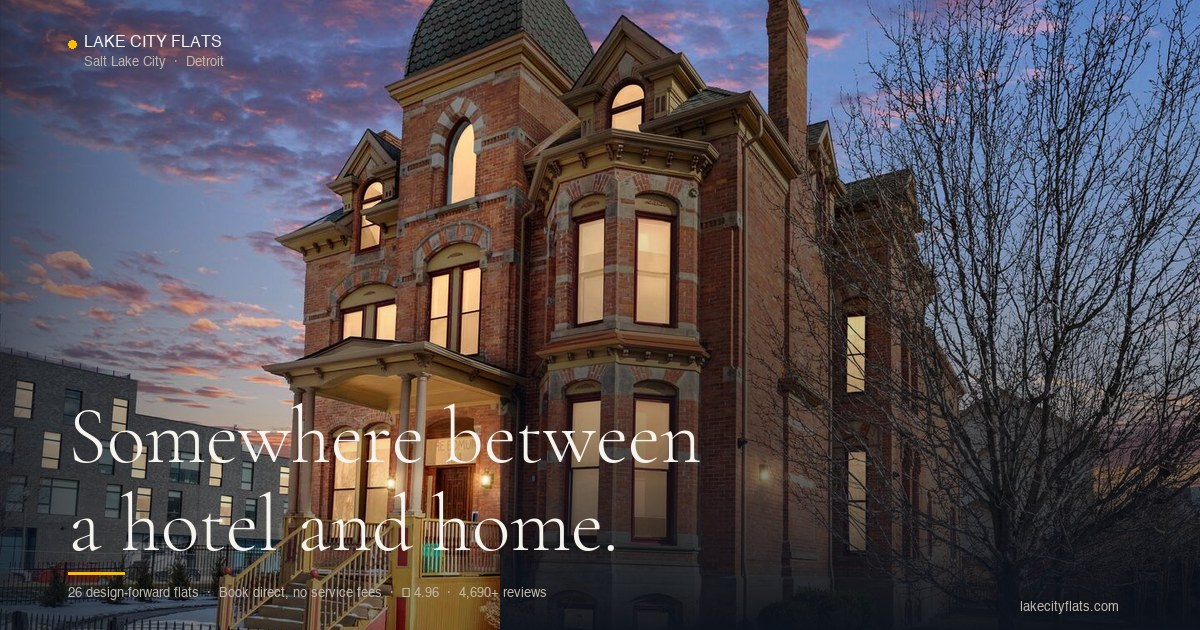
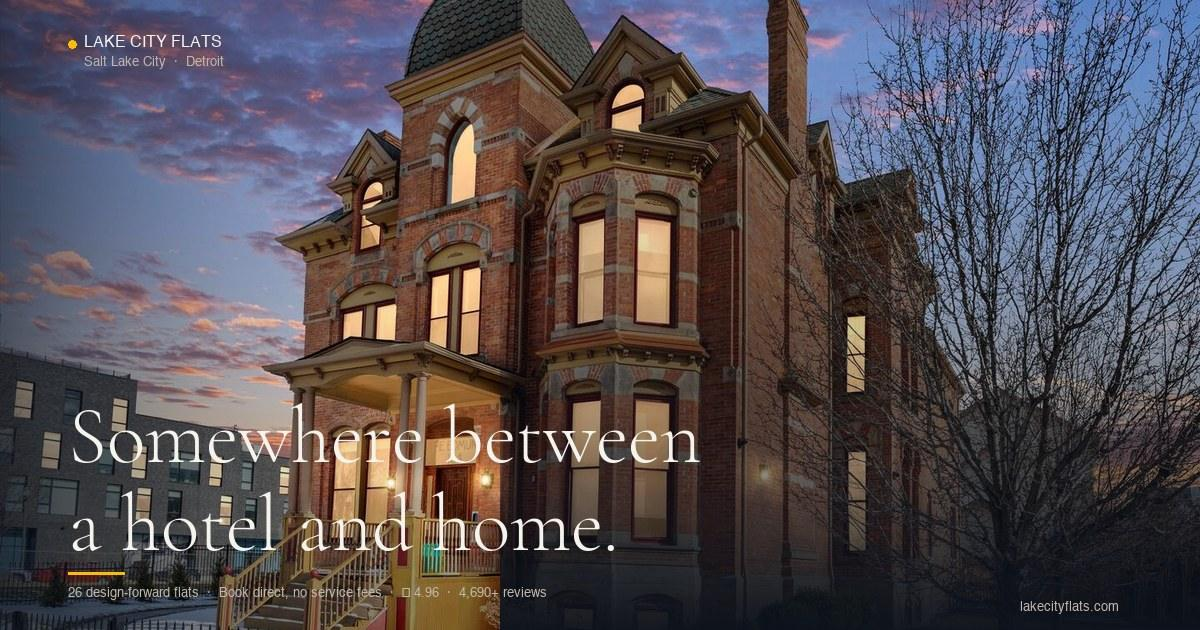
Perf: WebP heroes, optimize OG, preload LCP hero, async fonts
- SLC hero 693->251KB, Detroit 282->256KB (WebP); deleted old JPGs (975KB)
- og-image.jpg 243->148KB (optimized, kept JPG for social compat)
- Preload the LCP hero with fetchpriority=high
- Google Fonts loaded non-render-blocking (preload+onload swap, noscript fallback) across pages

Changed region(s): [[0.0617, 0.9048, 0.0925, 0.9349]]

diff --git a/index.html b/index.html
@@ -69,9 +69,11 @@
 <link rel="apple-touch-icon" sizes="180x180" href="apple-touch-icon.png">
 <link rel="preconnect" href="https://pub-b7ec579abf5b4197b5fcb40a0cf5ac32.r2.dev" crossorigin>
 <link rel="preconnect" href="https://booking.hospitable.com" crossorigin>
+<link rel="preload" as="image" href="images/slc-hero.webp" fetchpriority="high">
 <link rel="preconnect" href="https://fonts.googleapis.com">
 <link rel="preconnect" href="https://fonts.gstatic.com" crossorigin>
-<link href="https://fonts.googleapis.com/css2?family=Cormorant+Garamond:ital,wght@0,300;0,400;0,500;0,600;1,300;1,400;1,500&family=Jost:wght@300;400;500;600&display=swap" rel="stylesheet">
+<link rel="preload" as="style" href="https://fonts.googleapis.com/css2?family=Cormorant+Garamond:ital,wght@0,300;0,400;0,500;0,600;1,300;1,400;1,500&family=Jost:wght@300;400;500;600&display=swap" onload="this.onload=null;this.rel='stylesheet'">
+<noscript><link rel="stylesheet" href="https://fonts.googleapis.com/css2?family=Cormorant+Garamond:ital,wght@0,300;0,400;0,500;0,600;1,300;1,400;1,500&family=Jost:wght@300;400;500;600&display=swap"></noscript>
 <link rel="stylesheet" href="https://cdn.jsdelivr.net/npm/flatpickr@4.6.13/dist/flatpickr.min.css">
 <script src="https://cdn.jsdelivr.net/npm/flatpickr@4.6.13/dist/flatpickr.min.js"></script>
 <style>
@@ -183,8 +185,8 @@ body::before{content:'';position:fixed;inset:0;z-index:1000;pointer-events:none;
 .hero-city-bg{position:absolute;inset:0;background-size:cover;background-position:center;transition:transform .6s ease;}
 .hero-city:hover .hero-city-bg{transform:scale(1.04);}
 .hero-city-overlay{position:absolute;inset:0;background:linear-gradient(to top,rgba(8,18,10,0.82) 0%,transparent 65%);transition:opacity .4s;}
-.hc-slc .hero-city-bg{background-image:url('images/slc-hero.jpg');background-size:cover;background-position:center 55%;}
-.hc-det .hero-city-bg{background-image:url('images/detroit-hero.jpg');background-size:cover;background-position:60% 20%;}
+.hc-slc .hero-city-bg{background-image:url('images/slc-hero.webp');background-size:cover;background-position:center 55%;}
+.hc-det .hero-city-bg{background-image:url('images/detroit-hero.webp');background-size:cover;background-position:60% 20%;}
 .hero-city-content{position:relative;z-index:2;}
 .hero-city-name{font-family:'Cormorant Garamond',serif;font-size:30px;font-weight:400;color:#fff;line-height:1;}
 .hero-city-hood{font-size:11px;color:rgba(255,255,255,0.48);margin-top:5px;line-height:1.55;}

diff --git a/404.html b/404.html
@@ -8,7 +8,7 @@
 <link rel="icon" type="image/svg+xml" href="/favicon.svg">
 <link rel="preconnect" href="https://fonts.googleapis.com">
 <link rel="preconnect" href="https://fonts.gstatic.com" crossorigin>
-<link href="https://fonts.googleapis.com/css2?family=Cormorant+Garamond:ital,wght@0,300;0,400;0,500;1,300;1,400&family=Jost:wght@300;400;500;600&display=swap" rel="stylesheet">
+<link rel="preload" as="style" href="https://fonts.googleapis.com/css2?family=Cormorant+Garamond:ital,wght@0,300;0,400;0,500;1,300;1,400&family=Jost:wght@300;400;500;600&display=swap" onload="this.onload=null;this.rel='stylesheet'"><noscript><link rel="stylesheet" href="https://fonts.googleapis.com/css2?family=Cormorant+Garamond:ital,wght@0,300;0,400;0,500;1,300;1,400&family=Jost:wght@300;400;500;600&display=swap"></noscript>
 <link rel="stylesheet" href="/css/style.css">
 <!-- Google tag (gtag.js) -->
 <script async src="https://www.googletagmanager.com/gtag/js?id=G-24FKZQFX23"></script>

diff --git a/about/index.html b/about/index.html
@@ -24,7 +24,7 @@
 <link rel="preconnect" href="https://fonts.googleapis.com">
 <link rel="preconnect" href="https://fonts.gstatic.com" crossorigin>
   <link rel="preconnect" href="https://api.hospitable.com">
-<link href="https://fonts.googleapis.com/css2?family=Cormorant+Garamond:ital,wght@0,300;0,400;0,500;0,600;1,300;1,400;1,500&family=Jost:wght@300;400;500;600&display=swap" rel="stylesheet">
+<link rel="preload" as="style" href="https://fonts.googleapis.com/css2?family=Cormorant+Garamond:ital,wght@0,300;0,400;0,500;0,600;1,300;1,400;1,500&family=Jost:wght@300;400;500;600&display=swap" onload="this.onload=null;this.rel='stylesheet'"><noscript><link rel="stylesheet" href="https://fonts.googleapis.com/css2?family=Cormorant+Garamond:ital,wght@0,300;0,400;0,500;0,600;1,300;1,400;1,500&family=Jost:wght@300;400;500;600&display=swap"></noscript>
 <link rel="stylesheet" href="../css/style.css">
 <style>
 .ab-header{background:var(--forest);padding:144px 56px 72px;display:grid;grid-template-columns:1fr 1fr;gap:80px;align-items:end;}

diff --git a/bookdirect/index.html b/bookdirect/index.html
@@ -35,7 +35,7 @@
 <link rel="preconnect" href="https://booking.hospitable.com" crossorigin>
 <link rel="preconnect" href="https://fonts.googleapis.com">
 <link rel="preconnect" href="https://fonts.gstatic.com" crossorigin>
-<link href="https://fonts.googleapis.com/css2?family=Cormorant+Garamond:ital,wght@0,300;0,400;0,500;0,600;1,300;1,400;1,500&family=Jost:wght@300;400;500;600&display=swap" rel="stylesheet">
+<link rel="preload" as="style" href="https://fonts.googleapis.com/css2?family=Cormorant+Garamond:ital,wght@0,300;0,400;0,500;0,600;1,300;1,400;1,500&family=Jost:wght@300;400;500;600&display=swap" onload="this.onload=null;this.rel='stylesheet'"><noscript><link rel="stylesheet" href="https://fonts.googleapis.com/css2?family=Cormorant+Garamond:ital,wght@0,300;0,400;0,500;0,600;1,300;1,400;1,500&family=Jost:wght@300;400;500;600&display=swap"></noscript>
 <link rel="stylesheet" href="https://cdn.jsdelivr.net/npm/flatpickr@4.6.13/dist/flatpickr.min.css">
 <script src="https://cdn.jsdelivr.net/npm/flatpickr@4.6.13/dist/flatpickr.min.js"></script>
 <link rel="stylesheet" href="../css/style.css">

diff --git a/detroit/index.html b/detroit/index.html
@@ -47,7 +47,7 @@
 <link rel="preconnect" href="https://booking.hospitable.com" crossorigin>
 <link rel="preconnect" href="https://fonts.googleapis.com">
 <link rel="preconnect" href="https://fonts.gstatic.com" crossorigin>
-<link href="https://fonts.googleapis.com/css2?family=Cormorant+Garamond:ital,wght@0,300;0,400;0,500;0,600;1,300;1,400;1,500&family=Jost:wght@300;400;500;600&display=swap" rel="stylesheet">
+<link rel="preload" as="style" href="https://fonts.googleapis.com/css2?family=Cormorant+Garamond:ital,wght@0,300;0,400;0,500;0,600;1,300;1,400;1,500&family=Jost:wght@300;400;500;600&display=swap" onload="this.onload=null;this.rel='stylesheet'"><noscript><link rel="stylesheet" href="https://fonts.googleapis.com/css2?family=Cormorant+Garamond:ital,wght@0,300;0,400;0,500;0,600;1,300;1,400;1,500&family=Jost:wght@300;400;500;600&display=swap"></noscript>
 <link rel="stylesheet" href="https://cdn.jsdelivr.net/npm/flatpickr@4.6.13/dist/flatpickr.min.css">
 <script src="https://cdn.jsdelivr.net/npm/flatpickr@4.6.13/dist/flatpickr.min.js"></script>
 <link rel="stylesheet" href="../css/style.css">

diff --git a/property/9line-loft-ii/index.html b/property/9line-loft-ii/index.html
@@ -27,7 +27,7 @@
 <link rel="preconnect" href="https://fonts.gstatic.com" crossorigin>
 <link rel="preconnect" href="https://pub-b7ec579abf5b4197b5fcb40a0cf5ac32.r2.dev" crossorigin>
 <link rel="preconnect" href="https://booking.hospitable.com" crossorigin>
-<link href="https://fonts.googleapis.com/css2?family=Cormorant+Garamond:ital,wght@0,300;0,400;0,500;0,600;1,300;1,400;1,500&family=Jost:wght@300;400;500;600&display=swap" rel="stylesheet">
+<link rel="preload" as="style" href="https://fonts.googleapis.com/css2?family=Cormorant+Garamond:ital,wght@0,300;0,400;0,500;0,600;1,300;1,400;1,500&family=Jost:wght@300;400;500;600&display=swap" onload="this.onload=null;this.rel='stylesheet'"><noscript><link rel="stylesheet" href="https://fonts.googleapis.com/css2?family=Cormorant+Garamond:ital,wght@0,300;0,400;0,500;0,600;1,300;1,400;1,500&family=Jost:wght@300;400;500;600&display=swap"></noscript>
 <link rel="stylesheet" href="../../css/style.css">
 <link rel="stylesheet" href="https://cdn.jsdelivr.net/npm/flatpickr/dist/flatpickr.min.css">
 <link rel="stylesheet" href="../../css/property.css">

diff --git a/property/9line-loft/index.html b/property/9line-loft/index.html
@@ -27,7 +27,7 @@
 <link rel="preconnect" href="https://fonts.gstatic.com" crossorigin>
 <link rel="preconnect" href="https://pub-b7ec579abf5b4197b5fcb40a0cf5ac32.r2.dev" crossorigin>
 <link rel="preconnect" href="https://booking.hospitable.com" crossorigin>
-<link href="https://fonts.googleapis.com/css2?family=Cormorant+Garamond:ital,wght@0,300;0,400;0,500;0,600;1,300;1,400;1,500&family=Jost:wght@300;400;500;600&display=swap" rel="stylesheet">
+<link rel="preload" as="style" href="https://fonts.googleapis.com/css2?family=Cormorant+Garamond:ital,wght@0,300;0,400;0,500;0,600;1,300;1,400;1,500&family=Jost:wght@300;400;500;600&display=swap" onload="this.onload=null;this.rel='stylesheet'"><noscript><link rel="stylesheet" href="https://fonts.googleapis.com/css2?family=Cormorant+Garamond:ital,wght@0,300;0,400;0,500;0,600;1,300;1,400;1,500&family=Jost:wght@300;400;500;600&display=swap"></noscript>
 <link rel="stylesheet" href="../../css/style.css">
 <link rel="stylesheet" href="https://cdn.jsdelivr.net/npm/flatpickr/dist/flatpickr.min.css">
 <link rel="stylesheet" href="../../css/property.css">

diff --git a/property/brick-studio/index.html b/property/brick-studio/index.html
@@ -27,7 +27,7 @@
 <link rel="preconnect" href="https://fonts.gstatic.com" crossorigin>
 <link rel="preconnect" href="https://pub-b7ec579abf5b4197b5fcb40a0cf5ac32.r2.dev" crossorigin>
 <link rel="preconnect" href="https://booking.hospitable.com" crossorigin>
-<link href="https://fonts.googleapis.com/css2?family=Cormorant+Garamond:ital,wght@0,300;0,400;0,500;0,600;1,300;1,400;1,500&family=Jost:wght@300;400;500;600&display=swap" rel="stylesheet">
+<link rel="preload" as="style" href="https://fonts.googleapis.com/css2?family=Cormorant+Garamond:ital,wght@0,300;0,400;0,500;0,600;1,300;1,400;1,500&family=Jost:wght@300;400;500;600&display=swap" onload="this.onload=null;this.rel='stylesheet'"><noscript><link rel="stylesheet" href="https://fonts.googleapis.com/css2?family=Cormorant+Garamond:ital,wght@0,300;0,400;0,500;0,600;1,300;1,400;1,500&family=Jost:wght@300;400;500;600&display=swap"></noscript>
 <link rel="stylesheet" href="../../css/style.css">
 <link rel="stylesheet" href="https://cdn.jsdelivr.net/npm/flatpickr/dist/flatpickr.min.css">
 <link rel="stylesheet" href="../../css/property.css">

diff --git a/property/downtown-2king-townhome/index.html b/property/downtown-2king-townhome/index.html
@@ -27,7 +27,7 @@
 <link rel="preconnect" href="https://fonts.gstatic.com" crossorigin>
 <link rel="preconnect" href="https://pub-b7ec579abf5b4197b5fcb40a0cf5ac32.r2.dev" crossorigin>
 <link rel="preconnect" href="https://booking.hospitable.com" crossorigin>
-<link href="https://fonts.googleapis.com/css2?family=Cormorant+Garamond:ital,wght@0,300;0,400;0,500;0,600;1,300;1,400;1,500&family=Jost:wght@300;400;500;600&display=swap" rel="stylesheet">
+<link rel="preload" as="style" href="https://fonts.googleapis.com/css2?family=Cormorant+Garamond:ital,wght@0,300;0,400;0,500;0,600;1,300;1,400;1,500&family=Jost:wght@300;400;500;600&display=swap" onload="this.onload=null;this.rel='stylesheet'"><noscript><link rel="stylesheet" href="https://fonts.googleapis.com/css2?family=Cormorant+Garamond:ital,wght@0,300;0,400;0,500;0,600;1,300;1,400;1,500&family=Jost:wght@300;400;500;600&display=swap"></noscript>
 <link rel="stylesheet" href="../../css/style.css">
 <link rel="stylesheet" href="https://cdn.jsdelivr.net/npm/flatpickr/dist/flatpickr.min.css">
 <link rel="stylesheet" href="../../css/property.css">

diff --git a/property/downtown-designer-2king/index.html b/property/downtown-designer-2king/index.html
@@ -27,7 +27,7 @@
 <link rel="preconnect" href="https://fonts.gstatic.com" crossorigin>
 <link rel="preconnect" href="https://pub-b7ec579abf5b4197b5fcb40a0cf5ac32.r2.dev" crossorigin>
 <link rel="preconnect" href="https://booking.hospitable.com" crossorigin>
-<link href="https://fonts.googleapis.com/css2?family=Cormorant+Garamond:ital,wght@0,300;0,400;0,500;0,600;1,300;1,400;1,500&family=Jost:wght@300;400;500;600&display=swap" rel="stylesheet">
+<link rel="preload" as="style" href="https://fonts.googleapis.com/css2?family=Cormorant+Garamond:ital,wght@0,300;0,400;0,500;0,600;1,300;1,400;1,500&family=Jost:wght@300;400;500;600&display=swap" onload="this.onload=null;this.rel='stylesheet'"><noscript><link rel="stylesheet" href="https://fonts.googleapis.com/css2?family=Cormorant+Garamond:ital,wght@0,300;0,400;0,500;0,600;1,300;1,400;1,500&family=Jost:wght@300;400;500;600&display=swap"></noscript>
 <link rel="stylesheet" href="../../css/style.css">
 <link rel="stylesheet" href="https://cdn.jsdelivr.net/npm/flatpickr/dist/flatpickr.min.css">
 <link rel="stylesheet" href="../../css/property.css">

diff --git a/property/downtown-gym-hot-tub/index.html b/property/downtown-gym-hot-tub/index.html
@@ -27,7 +27,7 @@
 <link rel="preconnect" href="https://fonts.gstatic.com" crossorigin>
 <link rel="preconnect" href="https://pub-b7ec579abf5b4197b5fcb40a0cf5ac32.r2.dev" crossorigin>
 <link rel="preconnect" href="https://booking.hospitable.com" crossorigin>
-<link href="https://fonts.googleapis.com/css2?family=Cormorant+Garamond:ital,wght@0,300;0,400;0,500;0,600;1,300;1,400;1,500&family=Jost:wght@300;400;500;600&display=swap" rel="stylesheet">
+<link rel="preload" as="style" href="https://fonts.googleapis.com/css2?family=Cormorant+Garamond:ital,wght@0,300;0,400;0,500;0,600;1,300;1,400;1,500&family=Jost:wght@300;400;500;600&display=swap" onload="this.onload=null;this.rel='stylesheet'"><noscript><link rel="stylesheet" href="https://fonts.googleapis.com/css2?family=Cormorant+Garamond:ital,wght@0,300;0,400;0,500;0,600;1,300;1,400;1,500&family=Jost:wght@300;400;500;600&display=swap"></noscript>
 <link rel="stylesheet" href="../../css/style.css">
 <link rel="stylesheet" href="https://cdn.jsdelivr.net/npm/flatpickr/dist/flatpickr.min.css">
 <link rel="stylesheet" href="../../css/property.css">

diff --git a/property/downtown-king-queen-garage/index.html b/property/downtown-king-queen-garage/index.html
@@ -27,7 +27,7 @@
 <link rel="preconnect" href="https://fonts.gstatic.com" crossorigin>
 <link rel="preconnect" href="https://pub-b7ec579abf5b4197b5fcb40a0cf5ac32.r2.dev" crossorigin>
 <link rel="preconnect" href="https://booking.hospitable.com" crossorigin>
-<link href="https://fonts.googleapis.com/css2?family=Cormorant+Garamond:ital,wght@0,300;0,400;0,500;0,600;1,300;1,400;1,500&family=Jost:wght@300;400;500;600&display=swap" rel="stylesheet">
+<link rel="preload" as="style" href="https://fonts.googleapis.com/css2?family=Cormorant+Garamond:ital,wght@0,300;0,400;0,500;0,600;1,300;1,400;1,500&family=Jost:wght@300;400;500;600&display=swap" onload="this.onload=null;this.rel='stylesheet'"><noscript><link rel="stylesheet" href="https://fonts.googleapis.com/css2?family=Cormorant+Garamond:ital,wght@0,300;0,400;0,500;0,600;1,300;1,400;1,500&family=Jost:wght@300;400;500;600&display=swap"></noscript>
 <link rel="stylesheet" href="../../css/style.css">
 <link rel="stylesheet" href="https://cdn.jsdelivr.net/npm/flatpickr/dist/flatpickr.min.css">
 <link rel="stylesheet" href="../../css/property.css">